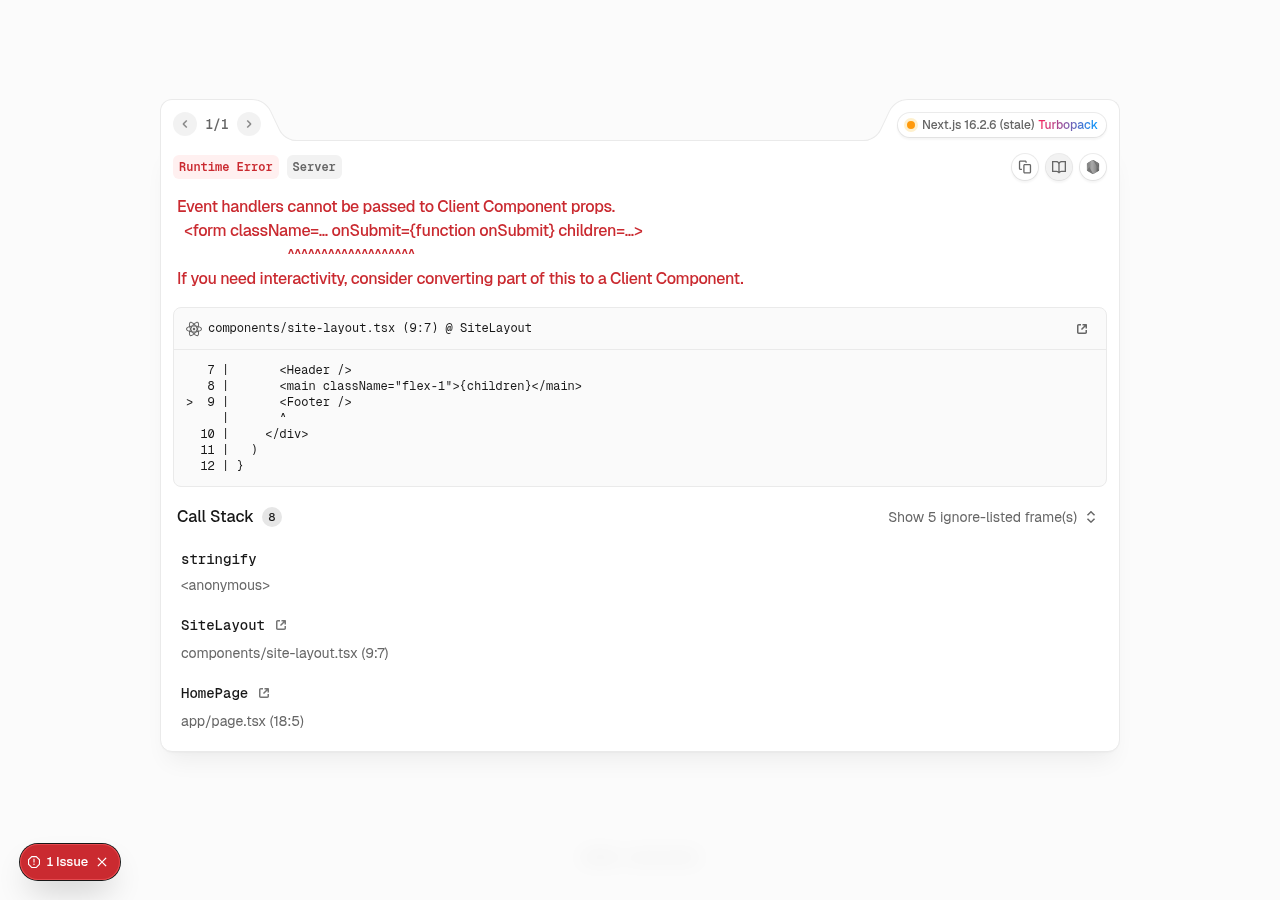
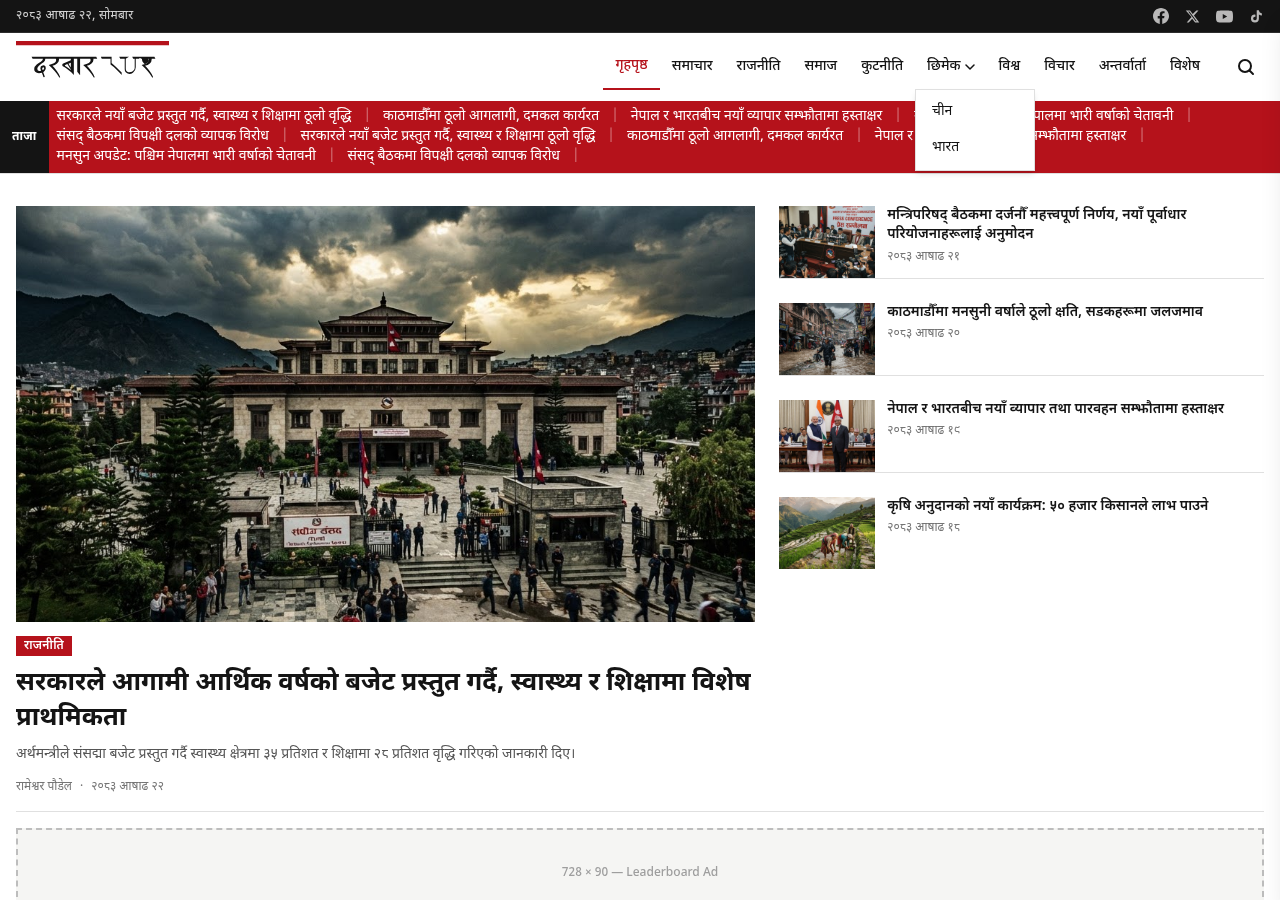
feat: add comment and contact forms to respective pages

diff --git a/app/[slug]/page.tsx b/app/[slug]/page.tsx
@@ -9,6 +9,7 @@ import { PostCardArchive } from "@/components/post-cards"
 import { PostListItem } from "@/components/post-cards"
 import { AdSlot } from "@/components/ad-slot"
 import { POSTS, getPostBySlug } from "@/lib/mock-data"
+import { CommentForm } from "@/components/comment-form"
 import type { Metadata } from "next"
 
 interface Props {
@@ -159,7 +160,7 @@ export default async function SinglePostPage({ params }: Props) {
                   {post.author}
                 </Link>
                 <p className="text-sm text-[#757575] mt-1">
-                  वरिष्ठ पत्रकार, दरबार खबर। राजनीति, कूटनीति र सामाजिक मुद्दाहरूमा विशेषज्ञता।
+                  वरिष्ठ पत्रकार, दरबार खबर। राजनीति, कूटनी���ि र सामाजिक मुद्दाहरूमा विशेषज्ञता।
                 </p>
               </div>
             </div>
@@ -183,40 +184,7 @@ export default async function SinglePostPage({ params }: Props) {
               <h2 className="text-base font-bold uppercase tracking-wide text-[#141414] border-b-2 border-[#B5121B] pb-2 inline-block mb-6">
                 टिप्पणी
               </h2>
-              <form
-                onSubmit={(e) => e.preventDefault()}
-                className="grid grid-cols-1 sm:grid-cols-2 gap-4"
-              >
-                <input
-                  type="text"
-                  placeholder="नाम *"
-                  required
-                  aria-label="नाम"
-                  className="border border-[#E0E0E0] px-3 py-2 text-sm outline-none focus:border-[#B5121B] transition-colors"
-                />
-                <input
-                  type="email"
-                  placeholder="इमेल *"
-                  required
-                  aria-label="इमेल"
-                  className="border border-[#E0E0E0] px-3 py-2 text-sm outline-none focus:border-[#B5121B] transition-colors"
-                />
-                <textarea
-                  placeholder="तपाईँको टिप्पणी..."
-                  rows={4}
-                  required
-                  aria-label="टिप्पणी"
-                  className="sm:col-span-2 border border-[#E0E0E0] px-3 py-2 text-sm outline-none focus:border-[#B5121B] transition-colors resize-none"
-                />
-                <div className="sm:col-span-2">
-                  <button
-                    type="submit"
-                    className="bg-[#B5121B] text-white text-sm font-semibold px-6 py-2.5 hover:bg-[#9a0f17] transition-colors"
-                  >
-                    टिप्पणी पठाउनुहोस्
-                  </button>
-                </div>
-              </form>
+              <CommentForm />
             </div>
           </article>
 

diff --git a/components/contact-form.tsx b/components/contact-form.tsx
@@ -1,0 +1,76 @@
+"use client"
+
+import { useState } from "react"
+
+export function ContactForm() {
+  const [submitted, setSubmitted] = useState(false)
+
+  function handleSubmit(e: React.FormEvent<HTMLFormElement>) {
+    e.preventDefault()
+    setSubmitted(true)
+  }
+
+  if (submitted) {
+    return (
+      <div className="flex flex-col gap-3 py-8 text-center">
+        <svg
+          width="40"
+          height="40"
+          viewBox="0 0 40 40"
+          fill="none"
+          className="mx-auto text-[#B5121B]"
+          aria-hidden="true"
+        >
+          <circle cx="20" cy="20" r="19" stroke="currentColor" strokeWidth="2" />
+          <path d="M12 20l6 6 10-12" stroke="currentColor" strokeWidth="2.5" strokeLinecap="round" strokeLinejoin="round" />
+        </svg>
+        <p className="font-semibold text-[#141414]">सन्देश पठाइयो!</p>
+        <p className="text-sm text-[#757575]">हामी चाँडै जवाफ दिनेछौँ।</p>
+        <button
+          onClick={() => setSubmitted(false)}
+          className="text-sm text-[#B5121B] underline self-center mt-1"
+        >
+          अर्को सन्देश पठाउनुहोस्
+        </button>
+      </div>
+    )
+  }
+
+  return (
+    <form onSubmit={handleSubmit} className="flex flex-col gap-4">
+      <input
+        type="text"
+        placeholder="नाम *"
+        required
+        aria-label="नाम"
+        className="border border-[#E0E0E0] px-3 py-2.5 text-sm outline-none focus:border-[#B5121B] transition-colors"
+      />
+      <input
+        type="email"
+        placeholder="इमेल *"
+        required
+        aria-label="इमेल"
+        className="border border-[#E0E0E0] px-3 py-2.5 text-sm outline-none focus:border-[#B5121B] transition-colors"
+      />
+      <input
+        type="text"
+        placeholder="विषय"
+        aria-label="विषय"
+        className="border border-[#E0E0E0] px-3 py-2.5 text-sm outline-none focus:border-[#B5121B] transition-colors"
+      />
+      <textarea
+        placeholder="सन्देश *"
+        rows={5}
+        required
+        aria-label="सन्देश"
+        className="border border-[#E0E0E0] px-3 py-2.5 text-sm outline-none focus:border-[#B5121B] transition-colors resize-none"
+      />
+      <button
+        type="submit"
+        className="bg-[#B5121B] text-white text-sm font-semibold px-6 py-2.5 hover:bg-[#9a0f17] transition-colors self-start"
+      >
+        पठाउनुहोस्
+      </button>
+    </form>
+  )
+}

diff --git a/app/contact/page.tsx b/app/contact/page.tsx
@@ -1,5 +1,6 @@
 import { SiteLayout } from "@/components/site-layout"
 import { Breadcrumb } from "@/components/breadcrumb"
+import { ContactForm } from "@/components/contact-form"
 import type { Metadata } from "next"
 
 export const metadata: Metadata = {
@@ -18,41 +19,7 @@ export default function ContactPage() {
 
           <div className="grid grid-cols-1 sm:grid-cols-2 gap-8 mt-6">
             {/* Form */}
-            <form onSubmit={(e) => e.preventDefault()} className="flex flex-col gap-4">
-              <input
-                type="text"
-                placeholder="नाम *"
-                required
-                aria-label="नाम"
-                className="border border-[#E0E0E0] px-3 py-2.5 text-sm outline-none focus:border-[#B5121B] transition-colors"
-              />
-              <input
-                type="email"
-                placeholder="इमेल *"
-                required
-                aria-label="इमेल"
-                className="border border-[#E0E0E0] px-3 py-2.5 text-sm outline-none focus:border-[#B5121B] transition-colors"
-              />
-              <input
-                type="text"
-                placeholder="विषय"
-                aria-label="विषय"
-                className="border border-[#E0E0E0] px-3 py-2.5 text-sm outline-none focus:border-[#B5121B] transition-colors"
-              />
-              <textarea
-                placeholder="सन्देश *"
-                rows={5}
-                required
-                aria-label="सन्देश"
-                className="border border-[#E0E0E0] px-3 py-2.5 text-sm outline-none focus:border-[#B5121B] transition-colors resize-none"
-              />
-              <button
-                type="submit"
-                className="bg-[#B5121B] text-white text-sm font-semibold px-6 py-2.5 hover:bg-[#9a0f17] transition-colors self-start"
-              >
-                पठाउनुहोस्
-              </button>
-            </form>
+            <ContactForm />
 
             {/* Info */}
             <div className="text-sm text-[#555] leading-[1.8] space-y-3">

diff --git a/components/comment-form.tsx b/components/comment-form.tsx
@@ -1,0 +1,64 @@
+"use client"
+
+import { useState } from "react"
+
+export function CommentForm() {
+  const [submitted, setSubmitted] = useState(false)
+
+  function handleSubmit(e: React.FormEvent<HTMLFormElement>) {
+    e.preventDefault()
+    setSubmitted(true)
+  }
+
+  if (submitted) {
+    return (
+      <div className="py-6 text-center border border-[#E0E0E0]">
+        <p className="font-semibold text-[#141414] mb-1">टिप्पणी पठाइयो!</p>
+        <p className="text-sm text-[#757575]">समीक्षापछि प्रकाशित गरिनेछ।</p>
+        <button
+          onClick={() => setSubmitted(false)}
+          className="text-sm text-[#B5121B] underline mt-2"
+        >
+          अर्को टिप्पणी थप्नुहोस्
+        </button>
+      </div>
+    )
+  }
+
+  return (
+    <form
+      onSubmit={handleSubmit}
+      className="grid grid-cols-1 sm:grid-cols-2 gap-4"
+    >
+      <input
+        type="text"
+        placeholder="नाम *"
+        required
+        aria-label="नाम"
+        className="border border-[#E0E0E0] px-3 py-2 text-sm outline-none focus:border-[#B5121B] transition-colors"
+      />
+      <input
+        type="email"
+        placeholder="इमेल *"
+        required
+        aria-label="इमेल"
+        className="border border-[#E0E0E0] px-3 py-2 text-sm outline-none focus:border-[#B5121B] transition-colors"
+      />
+      <textarea
+        placeholder="तपाईँको टिप्पणी..."
+        rows={4}
+        required
+        aria-label="टिप्पणी"
+        className="sm:col-span-2 border border-[#E0E0E0] px-3 py-2 text-sm outline-none focus:border-[#B5121B] transition-colors resize-none"
+      />
+      <div className="sm:col-span-2">
+        <button
+          type="submit"
+          className="bg-[#B5121B] text-white text-sm font-semibold px-6 py-2.5 hover:bg-[#9a0f17] transition-colors"
+        >
+          टिप्पणी पठाउनुहोस्
+        </button>
+      </div>
+    </form>
+  )
+}

diff --git a/components/footer.tsx b/components/footer.tsx
@@ -1,3 +1,5 @@
+"use client"
+
 import Link from "next/link"
 import { Logo } from "@/components/logo"
 
